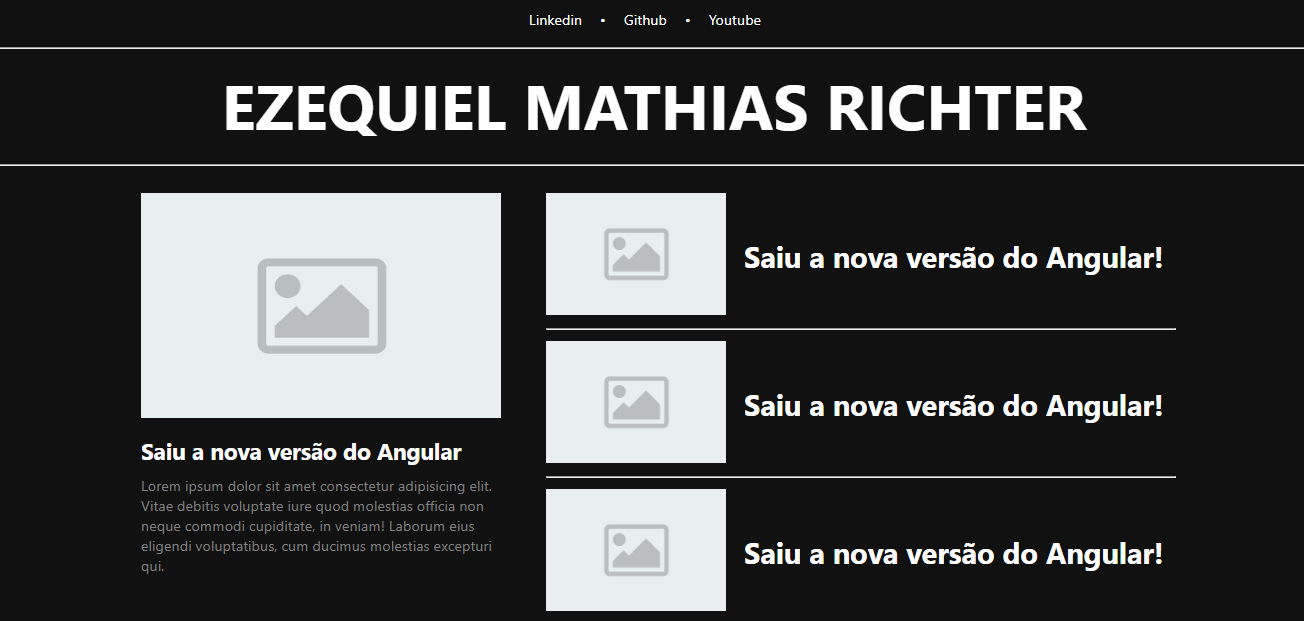
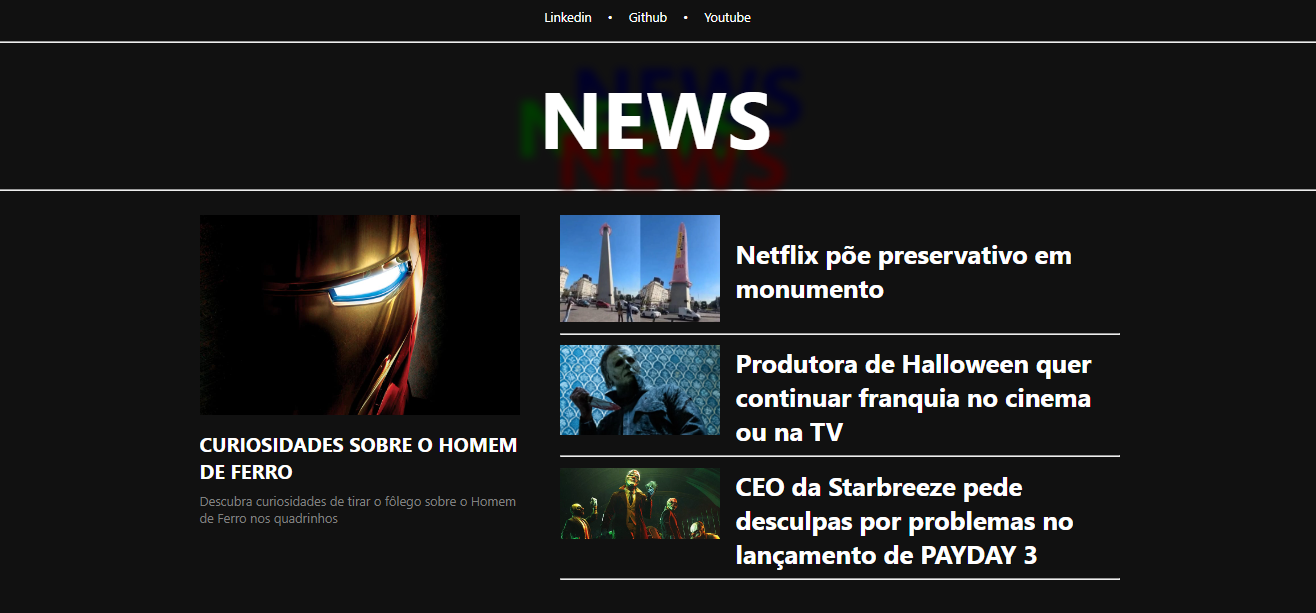
adicionando dinamismo ao blog

diff --git a/src/app/pages/home/home.component.html b/src/app/pages/home/home.component.html
@@ -6,11 +6,31 @@
 <app-menu-title></app-menu-title>
 <div class="container__articles">
   <div class="articles__main">
-    <app-big-card></app-big-card>
+    <app-big-card
+      photoCover="https://cdn.marvel.com/content/1x/ironman_lob_mas_hlf_02_0.jpg"
+      cardTittle="CURIOSIDADES SOBRE O HOMEM DE FERRO"
+      cardDescription="Descubra curiosidades de tirar o fôlego sobre o Homem de Ferro nos quadrinhos"
+      newLink="https://universoestendido.com.br/listas/curiosidades-homem-de-ferro/"
+    ></app-big-card>
   </div>
   <div class="articles__others">
-    <app-small-card></app-small-card>
-    <app-small-card></app-small-card>
-    <app-small-card></app-small-card>
+    <app-small-card
+      cardTittle="Netflix põe preservativo em monumento"
+      newLink="https://jovemnerd.com.br/nerdbunker/netflix-camisinha-gigante-sex-education/"
+      photoCover="https://tnonline.uol.com.br/img/Artigo-Destaque/790000/Campanha-promove-o-lancamento-da-quarta-e-ultima-t-00795261-0-202309231949.jpg?xid=1087443"
+    >
+    </app-small-card>
+    <app-small-card
+    cardTittle="Produtora de Halloween quer continuar franquia no cinema ou na TV"
+    photoCover="https://uploads.jovemnerd.com.br/wp-content/uploads/2023/09/halloween_novos_projetos_tv_cinema__f595028w5-760x428.jpg"
+    newLink="https://jovemnerd.com.br/nerdbunker/halloween-novos-projetos-tv-filmes/"
+    >
+    </app-small-card>
+    <app-small-card
+    cardTittle="CEO da Starbreeze pede desculpas por problemas no lançamento de PAYDAY 3"
+    photoCover="https://uploads.jovemnerd.com.br/wp-content/uploads/2023/09/vitrine_payday_3_problemas_lancamento_nerdbunker__c4292v3n-1210x544.jpg"
+    newLink="https://jovemnerd.com.br/nerdbunker/desenvolvedor-de-payday-3-desculpas-problemas-no-lancamento/"
+    >
+    </app-small-card>
   </div>
 </div>

diff --git a/src/app/components/big-card/big-card.component.html b/src/app/components/big-card/big-card.component.html
@@ -1,17 +1,17 @@
 <div class="container__big-card">
   <div class="big-card__picture">
-    <img src="https://www.pulsecarshalton.co.uk/wp-content/uploads/2016/08/jk-placeholder-image.jpg"
+    <img src="{{photoCover}}"
     alt=""
     height="250px"
     width="400px">
   </div>
   <div class="big-card__tittle">
-    <h1> <a href="#" target="_blank">Saiu a nova versão do Angular</a></h1>
+    <h1> <a href="{{newLink}}" target="_blank">{{cardTittle}}</a></h1>
   </div>
   <div class="big-card-description">
     <p>
-      <a href="#" target="_blank">
-        Lorem ipsum dolor sit amet consectetur adipisicing elit. Vitae debitis voluptate iure quod molestias officia non neque commodi cupiditate, in veniam! Laborum eius eligendi voluptatibus, cum ducimus molestias excepturi qui.
+      <a href="{{newLink}}" target="_blank">
+        {{cardDescription}}
       </a>
     </p>
   </div>

diff --git a/src/app/components/big-card/big-card.component.ts b/src/app/components/big-card/big-card.component.ts
@@ -1,4 +1,4 @@
-import { Component, OnInit } from '@angular/core';
+import { Component, Input, OnInit } from '@angular/core';
 
 @Component({
   selector: 'app-big-card',
@@ -6,7 +6,14 @@ import { Component, OnInit } from '@angular/core';
   styleUrls: ['./big-card.component.css']
 })
 export class BigCardComponent implements OnInit {
-
+  @Input()
+  photoCover:string = ""
+  @Input()
+  cardTittle:string =""
+  @Input()
+  cardDescription:string=""
+  @Input()
+  newLink:string=""
   constructor() { }
 
   ngOnInit(): void {

diff --git a/src/app/components/menu-title/menu-title.component.css b/src/app/components/menu-title/menu-title.component.css
@@ -3,9 +3,13 @@
 }
 
 .menu__tittle__container > h1{
-  margin-top: 15px ;
-  margin-bottom: 15px;
-  font-size: 70px;
+  margin-top: 25px ;
+  margin-bottom: 25px;
+  font-size: 100px;
+  /*text-shadow: 0.2em 0.2em 0.3em rgb(36, 36, 36);*/
+  text-shadow: 0.2em 0.5em 0.1em rgb(65, 0, 0),
+  -0.3em 0.1em 0.1em rgb(0, 58, 0),
+  0.4em -0.3em 0.1em rgb(0, 0, 41);
   font-family: 'Segoe UI', Tahoma, Geneva, Verdana, sans-serif;
   display: flex;
   justify-content: center;

diff --git a/src/app/components/small-card/small-card.component.ts b/src/app/components/small-card/small-card.component.ts
@@ -1,4 +1,4 @@
-import { Component, OnInit } from '@angular/core';
+import { Component,Input, OnInit } from '@angular/core';
 
 @Component({
   selector: 'app-small-card',
@@ -6,6 +6,13 @@ import { Component, OnInit } from '@angular/core';
   styleUrls: ['./small-card.component.css']
 })
 export class SmallCardComponent implements OnInit {
+
+  @Input()
+  photoCover:string=""
+  @Input()
+  cardTittle:string=""
+  @Input()
+  newLink:string=""
 
   constructor() { }
 

diff --git a/src/app/components/small-card/small-card.component.html b/src/app/components/small-card/small-card.component.html
@@ -3,11 +3,11 @@
 
 
   <div class="small-card__picture">
-    <img src="https://www.pulsecarshalton.co.uk/wp-content/uploads/2016/08/jk-placeholder-image.jpg" alt="imagem">
+    <img src="{{photoCover}}" alt="imagem">
   </div>
   <div class="small-card__tittle">
-    <h1><a href="#">
-      Saiu a nova versão do Angular!
+    <h1><a href="{{newLink}}">
+      {{cardTittle}}
     </a></h1>
   </div>
   </div>

diff --git a/src/app/components/menu-title/menu-title.component.html b/src/app/components/menu-title/menu-title.component.html
@@ -1,5 +1,5 @@
 <div class="menu__tittle__container">
   <hr>
-  <h1>EZEQUIEL MATHIAS RICHTER</h1>
+  <h1>NEWS</h1>
   <hr>
 </div>
